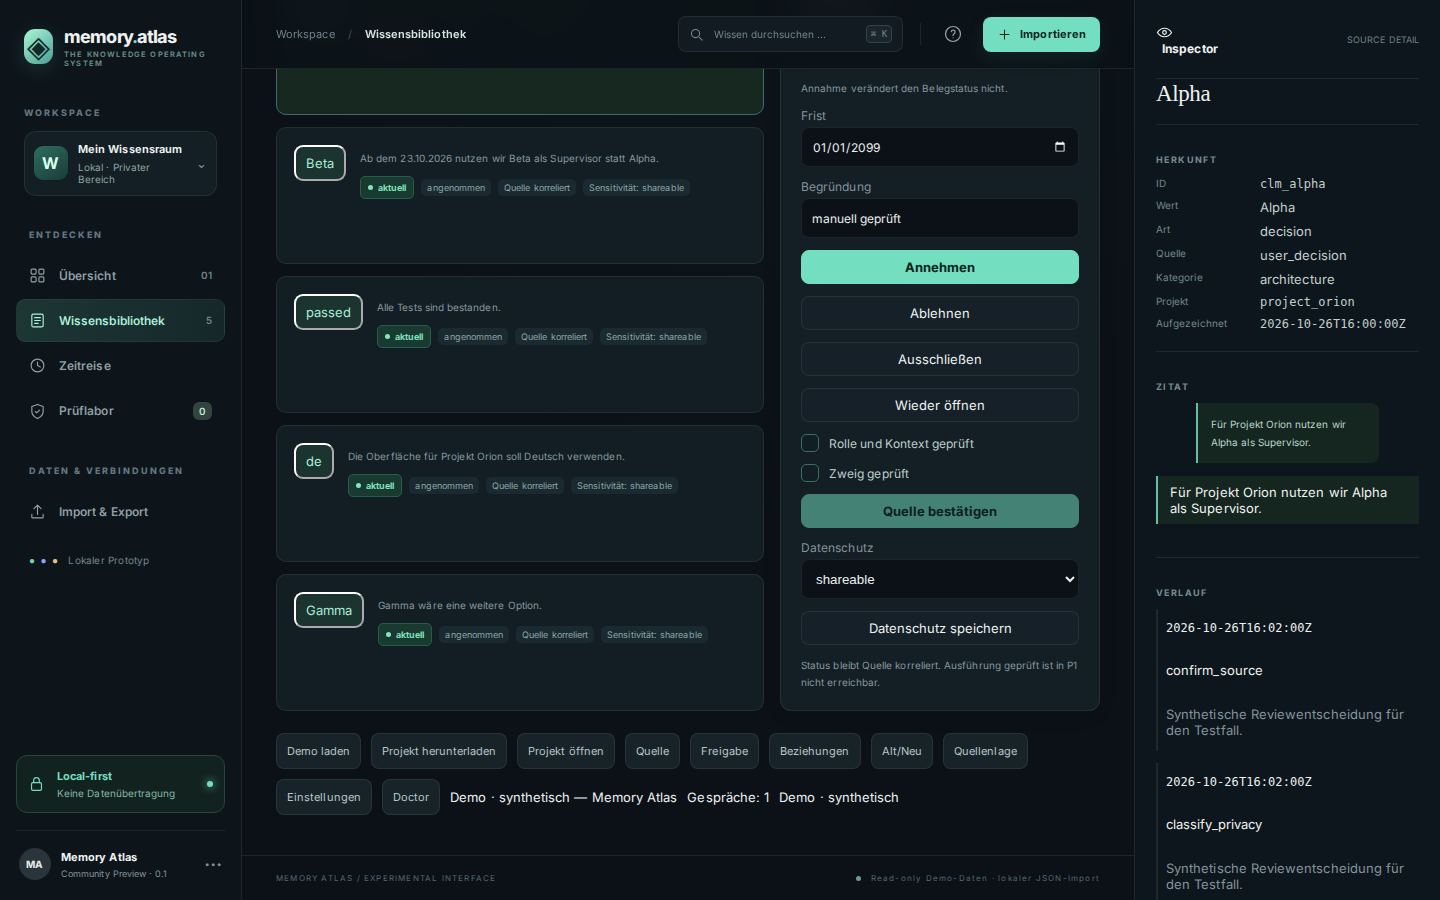
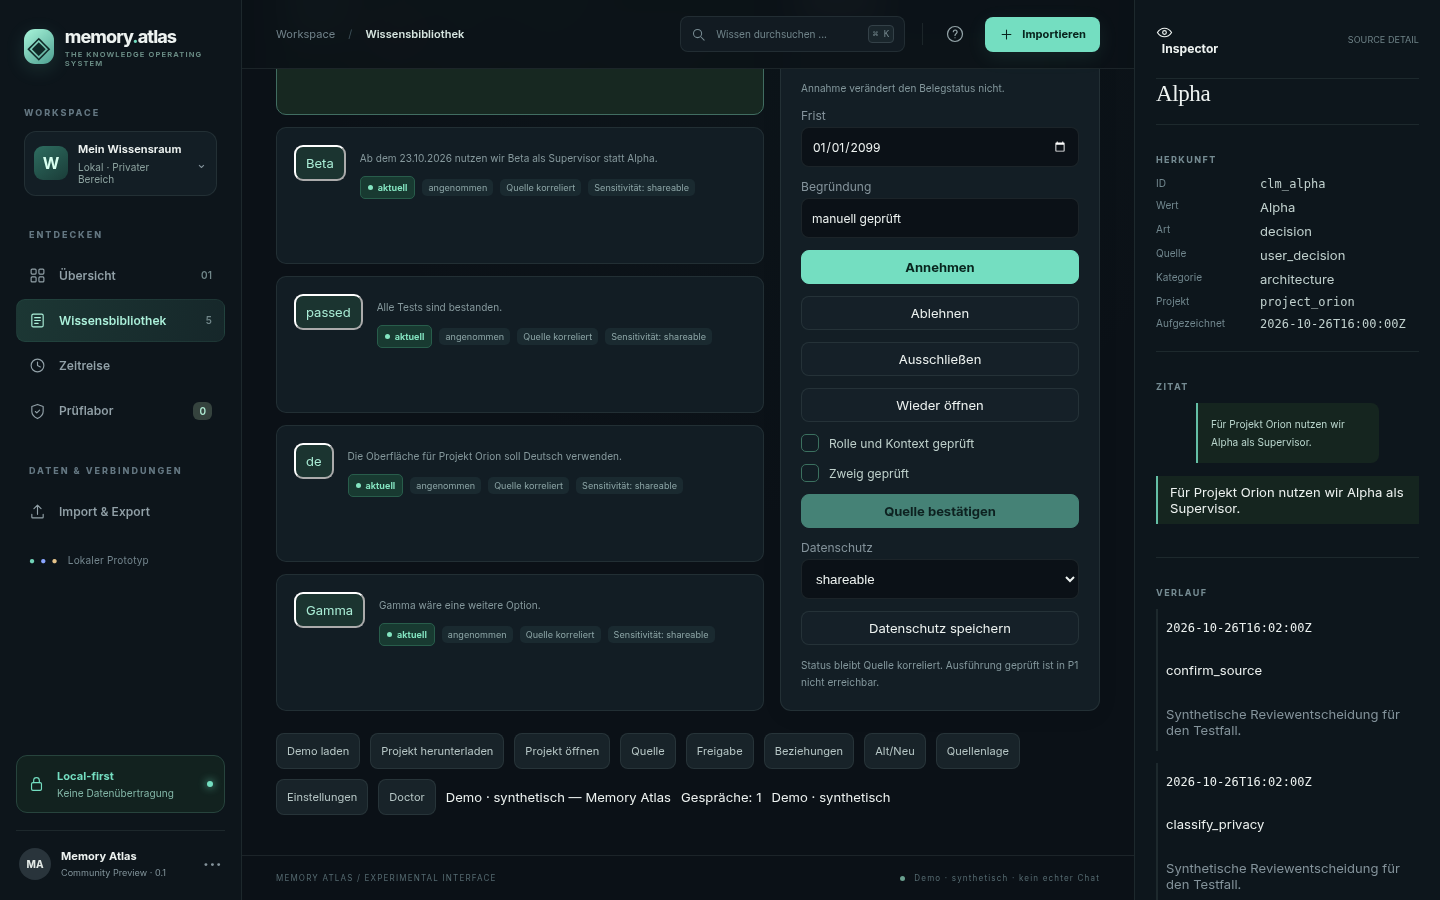
Finish provenance labels, revoke button and screenshots (#6); record #3/#4 state

diff --git a/apps/web/tests/e2e/honesty.spec.ts b/apps/web/tests/e2e/honesty.spec.ts
@@ -7,6 +7,7 @@ test('labels the empty illustration and does not offer Claude as an approved imp
   await expect(page.locator('footer')).not.toContainText('Read-only Demo-Daten');
   await expect(page.getByRole('link', { name: 'Wissensbibliothek0' })).toBeVisible();
   await expect(page.getByText('PRIVATE VORSCHAU · BEISPIELDATEN')).toBeVisible();
+  await expect(page.locator('.graph-mini-legend')).toContainText('Beispieldaten');
   await expect(page.getByText('Das Claude-Profil ist nicht freigegeben.')).toBeVisible();
   await expect(page.getByText('Importiere ChatGPT- oder Claude-JSON.')).toHaveCount(0);
   await expect(page.getByText('Demo + geprüfte Kandidaten')).toHaveCount(0);
@@ -20,6 +21,8 @@ test('keeps the synthetic label after an import into the demo', async ({ page })
   await page.goto('/');
   await page.getByRole('button', { name: 'Demo laden' }).click();
   await expect(page.locator('footer')).toContainText('Demo · synthetisch · kein echter Chat');
+  await expect(page.locator('.graph-mini-legend')).toContainText('Demo · synthetisch');
+  await expect(page.locator('aside[aria-label="Quelleninspektor"] .ins-pairs')).toContainText('Demo · synthetisch');
   await expect(page.getByText('DEMO · SYNTHETISCH', { exact: true })).toBeVisible();
   await expect(page.getByText('Beispieldaten weichen, sobald Gespräche oder Wissenskarten vorliegen.')).toHaveCount(0);
   await importFixtures(page, 'chatgpt/01-linear.json');
@@ -35,17 +38,23 @@ test('labels a fresh import as the loaded inventory', async ({ page }) => {
   await expect(page.locator('footer')).toContainText('Eigener Bestand · lokaler JSON-Import');
   await expect(page.getByText('Demo · synthetisch')).toHaveCount(0);
   await expect(page.getByText('GELADENER BESTAND', { exact: true })).toBeVisible();
+  await expect(page.locator('.graph-mini-legend')).toContainText('Geladener Bestand');
+  await expect(page.locator('aside[aria-label="Quelleninspektor"] .ins-pairs')).toContainText('Eigener Bestand');
   await expect(page.getByText(/inkl\. \d+ angenommen/)).toBeVisible();
   await expect(page.getByText(/inkl\. \d+ freigegeben/)).toHaveCount(0);
 });
 
-test('does not preview a memory draft that differs from the saved set', async ({ page }) => {
+test('marks an existing preview stale when the memory draft changes', async ({ page }) => {
   await page.goto('/');
   await page.getByRole('button', { name: 'Demo laden' }).click();
   await page.goto('/#/memory');
   await expect(page.getByText('Auswahl gespeichert.', { exact: true })).toBeVisible();
+  await page.getByRole('button', { name: 'Vorschau erzeugen' }).click();
+  await expect(page.getByText('Vorschau', { exact: true })).toBeVisible();
   await page.getByLabel('Empfänger').fill('anderer-empfaenger');
   await expect(page.getByText('Auswahl nicht gespeichert.', { exact: true })).toBeVisible();
   await expect(page.getByRole('button', { name: 'Vorschau erzeugen' })).toBeDisabled();
-  await expect(page.getByRole('button', { name: 'Freigeben' })).toHaveCount(0);
+  await expect(page.getByText('Vorschau veraltet: Entwurf weicht vom gespeicherten Set ab.', { exact: true })).toBeVisible();
+  await expect(page.getByRole('button', { name: 'Freigeben' })).toBeDisabled();
+  await expect(page.getByRole('button', { name: 'Freigabe widerrufen' })).toBeEnabled();
 });

diff --git a/apps/web/src/features/shell/Inspector.tsx b/apps/web/src/features/shell/Inspector.tsx
@@ -4,6 +4,7 @@ import { useAtlas, useLiveQuery } from '../../service-context';
 import { useShell } from '../../selection';
 import { partText } from '../format';
 import { cardKind, dateLabel, statusTag, TOPIC_LABELS, type VisualCard } from '../overview/reference-demo';
+import { dataOrigin, inspectorDataLabel } from '../overview/data-origin';
 import { cardById, usesIllustration, visualCards } from '../overview/visual-cards';
 import { Icon } from './icons';
 
@@ -34,7 +35,7 @@ export function Inspector() {
             <button type="button" className="ins-close" aria-label="Inspektor schließen" onClick={() => setInspectorOpen(false)}><Icon name="x" /></button>
             <span className="source-detail">SOURCE DETAIL</span>
           </div>
-          <WorkspaceBody dirty={state.dirty} demo={state.demo} />
+          <WorkspaceBody snapshot={snapshot} dirty={state.dirty} demo={state.demo} />
         </>
       )}
     </aside>
@@ -100,9 +101,8 @@ function DemoInspector({ card, cards, onClose }: { card: VisualCard; cards: read
   );
 }
 
-function WorkspaceBody({ dirty, demo }: { dirty: boolean; demo: boolean }) {
-  const { state } = useAtlas();
-  const snapshot = state.snapshot;
+function WorkspaceBody({ snapshot, dirty, demo }: { snapshot: AtlasSnapshot; dirty: boolean; demo: boolean }) {
+  const origin = dataOrigin(snapshot, demo);
   return (
     <>
       <p className="ins-text">Nichts ausgewählt. Die Werte gehören zum geladenen Arbeitsbereich.</p>
@@ -115,7 +115,7 @@ function WorkspaceBody({ dirty, demo }: { dirty: boolean; demo: boolean }) {
         <div><dt>Karten</dt><dd>{snapshot.claims.length}</dd></div>
         <div><dt>Reviews</dt><dd>{snapshot.reviews.length}</dd></div>
         <div><dt>Datei</dt><dd>{dirty ? 'Nicht als Datei gespeichert' : 'Datei und Sitzung stimmen überein'}</dd></div>
-        <div><dt>Daten</dt><dd>{demo ? 'Beispieldaten' : 'Eigener Bestand'}</dd></div>
+        <div><dt>Daten</dt><dd>{inspectorDataLabel(origin)}</dd></div>
       </dl>
     </>
   );

diff --git a/apps/web/tests/unit/data-origin.test.ts b/apps/web/tests/unit/data-origin.test.ts
@@ -1,7 +1,7 @@
 import { describe, expect, it } from 'vitest';
 import { draftMatchesStored } from '../../src/domain/export';
 import { isSyntheticSnapshot } from '../../src/store/snapshot';
-import { dataOrigin, originFooter, originMark } from '../../src/features/overview/data-origin';
+import { dataOrigin, inspectorDataLabel, legendLabel, originFooter, originMark } from '../../src/features/overview/data-origin';
 import { emptySnapshot } from '../../src/store/snapshot';
 import { readFileSync } from 'node:fs';
 import { resolve } from 'node:path';
@@ -16,11 +16,15 @@ describe('sample and inventory labels', () => {
     expect(isSyntheticSnapshot(empty)).toBe(false);
     expect(dataOrigin(empty, false)).toBe('illustration');
     expect(originMark('illustration')).toBe('PRIVATE VORSCHAU · BEISPIELDATEN');
+    expect(legendLabel('illustration')).toBe('Beispieldaten');
+    expect(inspectorDataLabel('illustration')).toBe('Beispieldaten');
     expect(originFooter('illustration')).toBe('Beispieldaten · nicht der geladene Bestand');
 
     expect(isSyntheticSnapshot(demo)).toBe(true);
     expect(dataOrigin(demo, true)).toBe('synthetic');
     expect(originMark('synthetic')).toBe('DEMO · SYNTHETISCH');
+    expect(legendLabel('synthetic')).toBe('Demo · synthetisch');
+    expect(inspectorDataLabel('synthetic')).toBe('Demo · synthetisch');
     expect(originFooter('synthetic')).toBe('Demo · synthetisch · kein echter Chat');
 
     const own = emptySnapshot('2026-10-26T16:00:00Z');
@@ -28,6 +32,8 @@ describe('sample and inventory labels', () => {
     expect(dataOrigin(own, false)).toBe('own');
     expect(originFooter('own')).toBe('Eigener Bestand · lokaler JSON-Import');
     expect(originMark('own')).toBe('GELADENER BESTAND');
+    expect(legendLabel('own')).toBe('Geladener Bestand');
+    expect(inspectorDataLabel('own')).toBe('Eigener Bestand');
   });
 
   it('treats an unsaved recipient change as not stored', () => {

diff --git a/apps/web/src/features/memory-sets/MemoryView.tsx b/apps/web/src/features/memory-sets/MemoryView.tsx
@@ -11,6 +11,7 @@ export function MemoryView() {
   const [draft, setDraft] = useState<MemorySetDraft>(() => freshDraft(state.snapshot.workspace.id, state.snapshot.memory_sets[0]));
   const [bundle, setBundle] = useState<{ files: ExportFiles; jsonSha: string; markdownSha: string } | null>(null);
   const saved = draftMatchesStored(state.snapshot, draft);
+  const storedSetExists = state.snapshot.memory_sets.some((set) => set.id === draft.id);
 
   return (
     <section className="stack">
@@ -50,12 +51,13 @@ export function MemoryView() {
       <div className="row">
         <button type="button" className="button primary" onClick={() => service.saveMemorySet(draft)}>Auswahl speichern</button>
         <button type="button" className="button" disabled={!saved} onClick={() => service.prepare(draft.id)}>Vorschau erzeugen</button>
-        <button type="button" className="button" disabled={!saved} onClick={() => service.reviewClaim('revoke_export', draft.id, 'Freigabe widerrufen')}>Freigabe widerrufen</button>
+        <button type="button" className="button" disabled={!storedSetExists} onClick={() => service.reviewClaim('revoke_export', draft.id, 'Freigabe widerrufen')}>Freigabe widerrufen</button>
       </div>
       {saved ? <p className="status ok">Auswahl gespeichert.</p> : <p className="status warn">Auswahl nicht gespeichert.</p>}
       {state.preview ? (
         <div className="card stack">
           <h2>Vorschau</h2>
+          {!saved ? <p className="status warn">Vorschau veraltet: Entwurf weicht vom gespeicherten Set ab.</p> : null}
           <p data-testid="json-sha">JSON-SHA256: {state.preview.json_sha256}</p>
           <p data-testid="markdown-sha">Markdown-SHA256: {state.preview.markdown_sha256}</p>
           <p>Vorschau gültig bis {state.preview.preview_expires_at}</p>

diff --git a/apps/web/src/features/overview/OverviewView.tsx b/apps/web/src/features/overview/OverviewView.tsx
@@ -3,7 +3,7 @@ import { useShell } from '../../selection';
 import { useAtlas } from '../../service-context';
 import { Icon } from '../shell/icons';
 import { RadialGraph } from './RadialGraph';
-import { acceptedMetricNote, currentMetricNote, dataOrigin, originMark } from './data-origin';
+import { acceptedMetricNote, currentMetricNote, dataOrigin, legendLabel, originMark } from './data-origin';
 import { countStatuses, type ActivityRow } from './reference-demo';
 import { activityRows, visualCards } from './visual-cards';
 
@@ -78,7 +78,7 @@ export function OverviewView({ at }: OverviewViewProps) {
           </div>
           <RadialGraph cards={cards} onOpen={() => { window.location.hash = '#/knowledge'; }} />
           <div className="graph-mini-legend">
-            <span><i className="legend-mark" /> Verknüpfte Wissensräume <i className="legend-mark soft" /> {illustration ? 'Beispieldaten' : 'Geladener Bestand'}</span>
+            <span><i className="legend-mark" /> Verknüpfte Wissensräume <i className="legend-mark soft" /> {legendLabel(origin)}</span>
             <span className="graph-footnote">Graph = Themenmodell · keine KI-Auswertung</span>
           </div>
         </section>

diff --git a/apps/web/src/features/overview/data-origin.ts b/apps/web/src/features/overview/data-origin.ts
@@ -25,6 +25,36 @@ export function originMark(origin: DataOrigin): string {
   }
 }
 
+export function legendLabel(origin: DataOrigin): string {
+  switch (origin) {
+    case 'illustration':
+      return 'Beispieldaten';
+    case 'synthetic':
+      return 'Demo · synthetisch';
+    case 'own':
+      return 'Geladener Bestand';
+    default: {
+      const neverOrigin: never = origin;
+      return neverOrigin;
+    }
+  }
+}
+
+export function inspectorDataLabel(origin: DataOrigin): string {
+  switch (origin) {
+    case 'illustration':
+      return 'Beispieldaten';
+    case 'synthetic':
+      return 'Demo · synthetisch';
+    case 'own':
+      return 'Eigener Bestand';
+    default: {
+      const neverOrigin: never = origin;
+      return neverOrigin;
+    }
+  }
+}
+
 export function originFooter(origin: DataOrigin): string {
   switch (origin) {
     case 'illustration':

diff --git a/docs/TRACEABILITY.md b/docs/TRACEABILITY.md
@@ -29,7 +29,7 @@ Dieses Dokument ordnet MA-001 bis MA-022 und AC01 bis AC24 den Tests zu, die das
 | MA-019 | AC17, AC19 | `export-eligibility-matrix.test.ts` deckt candidate/rejected/excluded, Zeitgrenzen, Reviewstatus, Konflikt, offene Ersetzung, Workspace-/Projekt-/Environment-Scope, secret/unknown sensitivity, Tool-/Predicate-/Modalitäts- und Branch-Sperren ab; `export-policy.test.ts` `SENSITIVE_CONTENT`, `LIMIT_CLAIMS`, `LIMIT_TEXT`, historische Ansicht exportiert Alpha nicht; `memory-export.spec.ts` Geheimnis fehlt, Manifest ohne Zitattext | „Sitzung leeren löscht Downloads nicht“: nicht abgedeckt |
 | MA-020 | AC07, AC08, AC18 | `import-chatgpt.test.ts` FI07; `import-invalid.test.ts` doppelte Schlüssel, Prototyp, Tiefe, UTF-8, Archiv, HTML, 32 MiB, gefälschtes `execution_verified`; `source-card.spec.ts` rendert den Skripttext ohne Request; `export-policy.test.ts` blockiert geänderte Bytes | SVG und Eventhandler als eigene Fälle, 128 MiB, 500 Dateien, 100.000 Nachrichten, bedienbare UI während des Workers: nicht abgedeckt |
 | MA-021 | AC20 | `accessibility.spec.ts` keine kritischen oder ernsten Axe-Befunde auf den Hauptseiten bei 1440×900, 1024×768, 390×844 und reduzierter Bewegung; `navigation.spec.ts` Tastatur, Menü, 390; `graph.spec.ts` reduzierte Bewegung; `complete-flow.spec.ts` Escape im Konfliktdialog | Erzwungener horizontaler Lauf, manueller Screenreader, alle Leer-, Lade-, Fehler- und Ungespeichert-Zustände: nicht abgedeckt |
-| MA-022 | AC21, AC24 | „Demo · synthetisch“ in `offline.spec.ts`, `graph.spec.ts`, `memory-export.spec.ts`. `honesty.spec.ts` prüft leere Illustration, fehlende Claude-Zusage, eigene Imports und die bleibende Demokennzeichnung. Offene Gates in `docs/implementation/VALIDATION.md`, Versionen in `docs/implementation/VERSIONS.md` | Automatisierter Nachweis, dass der Validierungsbericht selbst keine Importabdeckung erfindet. Die Übersichtszahlen der leeren Illustration bleiben Beispielkarten und sind als solche beschriftet |
+| MA-022 | AC21, AC24 | „Demo · synthetisch“ in `offline.spec.ts`, `graph.spec.ts`, `memory-export.spec.ts`. `honesty.spec.ts` prüft leere Illustration, Legende und Inspektor als Beispieldaten, fehlende Claude-Zusage, eigene Imports und die bleibende Demokennzeichnung. Offene Gates in `docs/implementation/VALIDATION.md`, Versionen in `docs/implementation/VERSIONS.md` | Automatisierter Nachweis, dass der Validierungsbericht selbst keine Importabdeckung erfindet. Die Übersichtszahlen der leeren Illustration bleiben Beispielkarten und sind als solche beschriftet |
 
 ## Abnahme AC01–AC24
 
@@ -55,7 +55,7 @@ Dieses Dokument ordnet MA-001 bis MA-022 und AC01 bis AC24 den Tests zu, die das
 | AC18 | JSON- und Markdown-Bytes und Hashes des Golden Exports. Download-Hash gleich Vorschau-Hash in Unit und in `complete-flow.spec.ts`. `STATE_CHANGED`, `SESSION_MISMATCH`, `PREVIEW_EXPIRED` ab 16:31. `export-eligibility-matrix.test.ts` prüft eine Reviewfrist vor dem 24-Stunden-Deckel. Golden `expires_at` `2026-10-27T16:15:00Z` ist der 24-Stunden-Deckel dieser Uhr. `honesty.spec.ts`: abweichender Empfänger sperrt Vorschau und Freigabe, bis die Auswahl gespeichert ist. | Gespeicherter Empfängerwechsel nach der Vorschau läuft über `STATE_CHANGED`; übrige Browser-/Windows-Gates bleiben nicht abgedeckt. |
 | AC19 | 51 IDs `LIMIT_CLAIMS`. 16.001 Zeichen `LIMIT_TEXT`, kein gekürztes Payload. Geheimtext fehlt in Unit und E2E. Manifest ohne „Für Projekt Orion“, mit JSON-Hash. Historische Ansicht umgeht die aktuelle Policy nicht. | Falscher Empfänger-, Projekt- oder Umgebungsscope als eigener Fall. Sitzung leeren entfernt keine früheren Downloads. |
 | AC20 | Axe ohne critical oder serious auf Überblick, Import, Quelle, Wissenskarten, Freigabe und Beziehungen, drei Viewports, reduzierte Bewegung. Skip-Link, Fokusfalle und Escape im Dialog „Sitzung leeren“, Konfliktdialog per Escape zurück zum Auslöser. Menü bei 1024, Stapel bei 390. | Gemessener horizontaler Überlauf. Manueller Screenreader. Explizite Leer-, Lade-, Fehler- und Ungespeichert-Zustände über alle diese Fälle. |
-| AC21 | „Demo · synthetisch“ bleibt in den Demo-Läufen sichtbar. `honesty.spec.ts`: leere Illustration heißt Beispieldaten, Claude wird nicht als Import angeboten, ein frischer Import heißt eigener Bestand, die Demokennzeichnung bleibt nach einem Import in die Demo. `docs/implementation/VALIDATION.md` nennt ausgeführte Läufe und offene Gates. | Ein Test, der die Ehrlichkeit des Validierungsberichts prüft. Die Übersichtszahlen der leeren Illustration sind beschriftete Beispielkarten, nicht der Snapshot-Zähler. |
+| AC21 | „Demo · synthetisch“ bleibt in den Demo-Läufen sichtbar. `honesty.spec.ts`: leere Illustration heißt in Legende und Inspektor Beispieldaten, Claude wird nicht als Import angeboten, ein frischer Import heißt eigener Bestand, die Demokennzeichnung bleibt nach einem Import in die Demo. `docs/implementation/VALIDATION.md` nennt ausgeführte Läufe und offene Gates. | Ein Test, der die Ehrlichkeit des Validierungsberichts prüft. Die Übersichtszahlen der leeren Illustration sind beschriftete Beispielkarten, nicht der Snapshot-Zähler. |
 | AC22 | Nicht gewählter Zweig bleibt aus, bis er angefordert wird. Sechsmonatsfilter blendet undatierte Nachrichten in einen eigenen Abschnitt. | KI-Filter. Manuelles Ausblenden. Ausgeschlossene Karten gelangen nach einem Filterwechsel nicht in Sets. Assistententext mit wiederholten privaten Angaben bleibt privat. |
 | AC23 | Kein Test. `docs/implementation/STATE.md` beschreibt den Titel-only-Stand, keine App, keine `AGENTS.md`, keine Lizenz, Paket mit `unzip -n` ohne Überschreiben. | Automatisierte Prüfung: nicht abgedeckt |
 | AC24 | `docs/implementation/VERSIONS.md`, `apps/web/package-lock.json`, `LICENSE`, `THIRD_PARTY_NOTICES.md`. `canonical.test.ts` prüft die MA-C14N-1-Vektoren. Offene Gates stehen in `VALIDATION.md`. Python-Vektoren prüft `memory-atlas-specc/checks/check_bundle.py` am Paket, nicht an der App. | Reales Sample. Windows-Kompatibilität. Beides bleibt absichtlich ohne Zusage. |

diff --git a/docs/implementation/STATE.md b/docs/implementation/STATE.md
@@ -40,4 +40,17 @@ Drei sichtbare Fehler in der Trennung von Beispiel, Quelle und Freigabe sind beh
 
 Nicht geändert, weil kein reproduzierter Produktfehler vorlag: der Offline-Build, die Exportmatrix, Windows, reale Claude-Samples und die übrigen in `docs/TRACEABILITY.md` als offen geführten Punkte. Die Golden-Datei `memory-atlas-specc/examples/memory-export.json` bindet `expires_at` bereits auf `2026-10-27T16:15:00Z`. Die Bilder unter `docs/images/` zeigen noch die ältere Fußzeile.
 
+Die Bilder unter `docs/images/` wurden am 2026-10-31 mit dem synthetischen Demo-Bestand neu aufgenommen (Chrome for Testing 156, 1440 px) und zeigen die aktuelle Fußzeile.
+
 In dieser Session ausgeführt: `npx vitest run` (17 Dateien, 55 Tests, Exit 0), `npx tsc -p tsconfig.json --noEmit` (Exit 0), Playwright `--project=chromium` für `honesty.spec.ts` (4 bestanden), `complete-flow.spec.ts` (1 bestanden) und `memory-export.spec.ts` (1 bestanden). Nicht erneut ausgeführt: die übrige E2E-Suite, Axe, `build:offline`, `file://` und Windows.
+
+## Rest Issue #6
+
+Die Herkunftsbeschriftungen für Legende und Workspace-Inspektor verwenden jetzt reine, exhaustive Funktionen für alle drei Ursprünge. Der Widerruf prüft unabhängig von ungespeicherten Entwurfsänderungen, ob das gespeicherte Set mit derselben ID existiert; Vorschau, Freigabe und Export bleiben an den gespeicherten Entwurf gebunden. Ergänzt wurden Unit-Abdeckung sowie vorsichtige E2E-Assertions in `honesty.spec.ts`. Die Unit-/TypeScript-Gates liefen in `apps/web` erfolgreich; der Playwright-Lauf konnte den Vite-Webserver wegen `listen EPERM` auf `127.0.0.1:4173` nicht starten und ist offen.
+
+## Abgleich Issues #3 bis #6 (2026-10-31)
+
+- #3: Produkt unverändert (das Issue ist nur eine Lückenmarkierung). Auf Linux läuft `tests/e2e/offline.spec.ts` (file://, `dist-offline/index.html`, keine Konsolenfehler, keine Requests) mit Chrome for Testing 156 grün. Das Windows-Gate bleibt offen und ungetestet.
+- #4: Produkt unverändert. `claude_profile_approved` bleibt `false`; es gibt kein anonymisiertes Sample und keines kommt ins Repo.
+- #5: `apps/web/tests/unit/export-eligibility-matrix.test.ts` variiert die Sperrgründe einzeln und prüft die Reviewfrist vor dem 24-Stunden-Deckel.
+- #6: Abgleich-Commit (Herkunftszustände, veraltete Vorschau) plus Legende, Inspektor, Widerruf-Button und neue Bilder.
